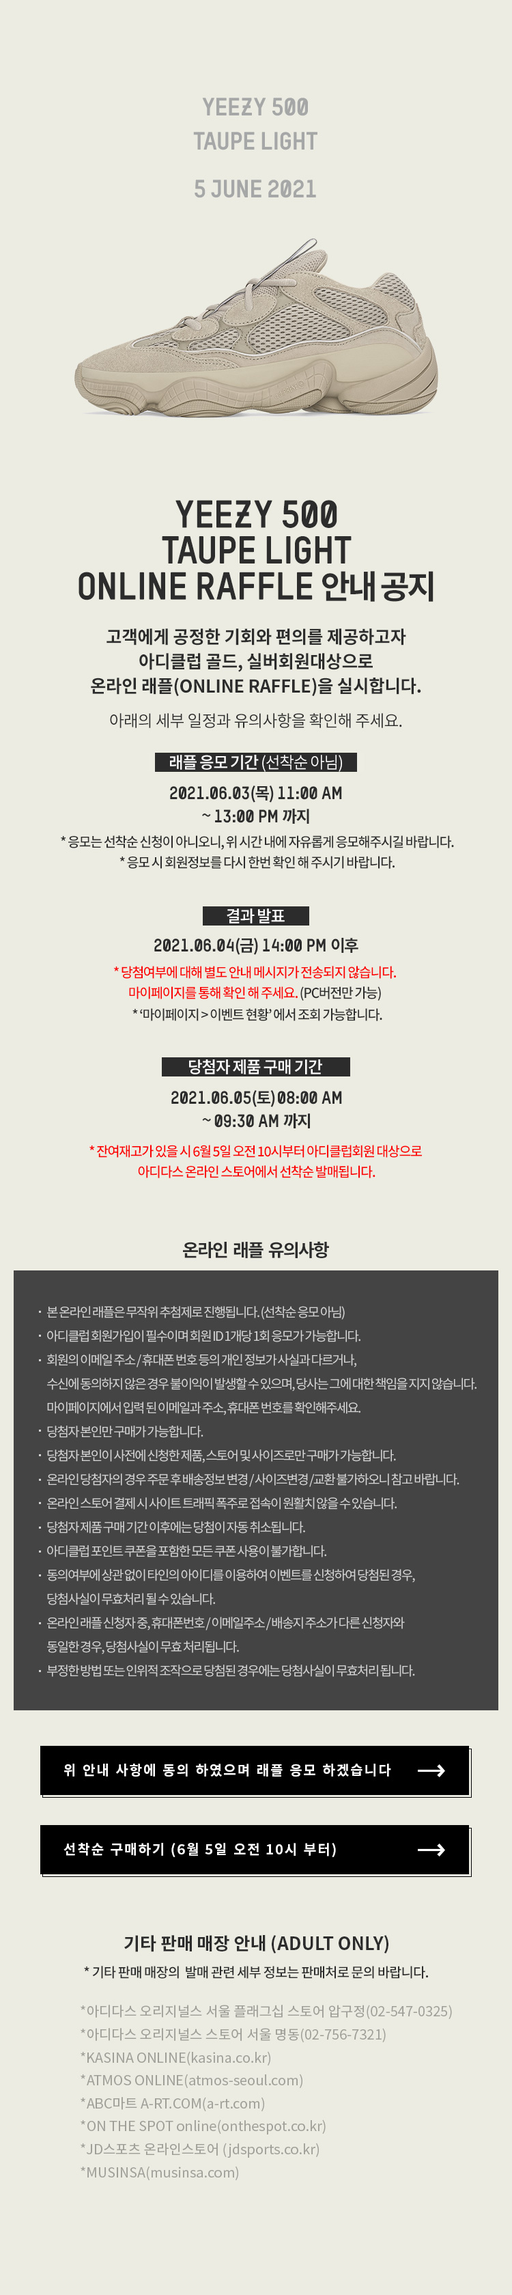
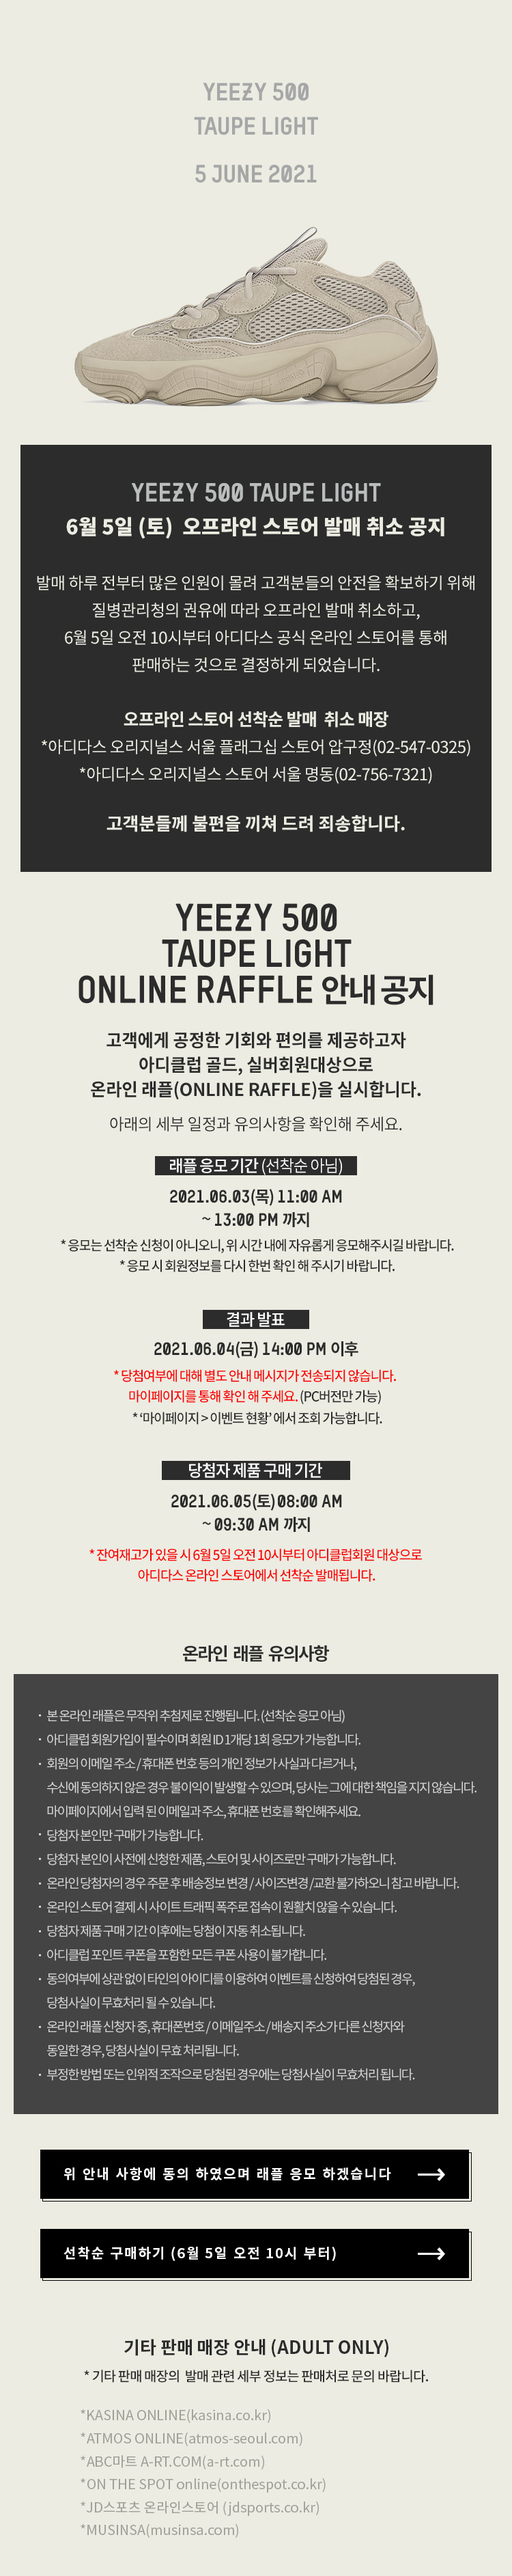
이지 금일 아삽

diff --git a/mobile/html/adidas/pn/YEEZY_INFORMATION.html b/mobile/html/adidas/pn/YEEZY_INFORMATION.html
@@ -1,16 +1,136 @@
-        <!-- container -->
-        <div id="container">
-            <style type="text/css">@media screen and (max-width: 320px){html{font-size:10px}}@media screen and (min-width: 800px){html{font-size:12px}}.pseudo-element{content:'';display:block}#yeezy_no_raffle{width:100%;position:relative;overflow:hidden;background:#fff}#yeezy_no_raffle .visual{position:relative;width:100%}#yeezy_no_raffle .visual img{display:block;width:100%}#yeezy_no_raffle .top_wrap{display:none;background:#eeeeee;text-align:center;padding-top:5%;padding-left:1.5rem;padding-right:1.5rem;padding-bottom:10%}#yeezy_no_raffle .top_wrap h3{font:2.8rem 'NotoSansKRBold';color:#000;text-align:center}#yeezy_no_raffle .top_wrap h3::after{content:'';width:45px;height:1px;background:#000;margin:20px 0;display:block;position:relative;left:50%;margin-left:-20px}#yeezy_no_raffle .top_wrap p.desc1{font:1.3rem/2rem 'NotoSansKRRegular';color:#000;margin-bottom:30px;text-align:center}#yeezy_no_raffle .top_wrap p.desc1 span{font:1.3rem/2rem 'adinenuPro-regular';text-align:center}#yeezy_no_raffle .top_wrap p.desc2{font:1.4rem/2.2rem 'NotoSansKRLight';color:#000;margin-bottom:30px;text-align:center}#yeezy_no_raffle .top_wrap p.desc2 span{font:1.5rem/2.2rem 'NotoSansKRBold'}#yeezy_no_raffle .top_wrap .button_area>*{padding:0}#yeezy_no_raffle .olapic-wrapper p.desc{font:1rem/1.8rem 'NotoSansKR';text-align:center}#yeezy_no_raffle .banner_wrap{margin-top:15%;padding:0 1.5rem}#yeezy_no_raffle .banner_wrap .banner1 a img{width:100%}#yeezy_no_raffle .banner_wrap .banner2{margin-top:8%;margin-bottom:8%}#yeezy_no_raffle .banner_wrap .banner2 a img{width:100%}
-            </style>
-            
-                        <div id="yeezy_no_raffle">
-                            <div class="visual">
-                                <img src="/images/adidas/2021/event/yeezy_information/0607/210601_a_yeezy_info_MO.jpg" alt="">
-                                <a href="https://m.adidas.co.kr/MO/Promotion/landingPage.action?NFN_ST=Y&pageNo=1315"
-                                    style="position: absolute;top: 42.5%;left: 0%;width: 100%;height: 4%;z-index: 1;text-indent: -3000px;"
-                                    campaign-label="구매하기">구매하기</a>
-                            </div>
-                            <!-- <div class="top_wrap">
+<!-- container -->
+<div id="container">
+    <style type="text/css">
+        @media screen and (max-width: 320px) {
+            html {
+                font-size: 10px
+            }
+        }
+
+        @media screen and (min-width: 800px) {
+            html {
+                font-size: 12px
+            }
+        }
+
+        .pseudo-element {
+            content: '';
+            display: block
+        }
+
+        #yeezy_no_raffle {
+            width: 100%;
+            position: relative;
+            overflow: hidden;
+            background: #fff
+        }
+
+        #yeezy_no_raffle .visual {
+            position: relative;
+            width: 100%
+        }
+
+        #yeezy_no_raffle .visual img {
+            display: block;
+            width: 100%
+        }
+
+        #yeezy_no_raffle .top_wrap {
+            display: none;
+            background: #eeeeee;
+            text-align: center;
+            padding-top: 5%;
+            padding-left: 1.5rem;
+            padding-right: 1.5rem;
+            padding-bottom: 10%
+        }
+
+        #yeezy_no_raffle .top_wrap h3 {
+            font: 2.8rem 'NotoSansKRBold';
+            color: #000;
+            text-align: center
+        }
+
+        #yeezy_no_raffle .top_wrap h3::after {
+            content: '';
+            width: 45px;
+            height: 1px;
+            background: #000;
+            margin: 20px 0;
+            display: block;
+            position: relative;
+            left: 50%;
+            margin-left: -20px
+        }
+
+        #yeezy_no_raffle .top_wrap p.desc1 {
+            font: 1.3rem/2rem 'NotoSansKRRegular';
+            color: #000;
+            margin-bottom: 30px;
+            text-align: center
+        }
+
+        #yeezy_no_raffle .top_wrap p.desc1 span {
+            font: 1.3rem/2rem 'adinenuPro-regular';
+            text-align: center
+        }
+
+        #yeezy_no_raffle .top_wrap p.desc2 {
+            font: 1.4rem/2.2rem 'NotoSansKRLight';
+            color: #000;
+            margin-bottom: 30px;
+            text-align: center
+        }
+
+        #yeezy_no_raffle .top_wrap p.desc2 span {
+            font: 1.5rem/2.2rem 'NotoSansKRBold'
+        }
+
+        #yeezy_no_raffle .top_wrap .button_area>* {
+            padding: 0
+        }
+
+        #yeezy_no_raffle .olapic-wrapper p.desc {
+            font: 1rem/1.8rem 'NotoSansKR';
+            text-align: center
+        }
+
+        #yeezy_no_raffle .banner_wrap {
+            margin-top: 15%;
+            padding: 0 1.5rem
+        }
+
+        #yeezy_no_raffle .banner_wrap .banner1 a img {
+            width: 100%
+        }
+
+        #yeezy_no_raffle .banner_wrap .banner2 {
+            margin-top: 8%;
+            margin-bottom: 8%
+        }
+
+        #yeezy_no_raffle .banner_wrap .banner2 a img {
+            width: 100%
+        }
+    </style>
+
+    <div id="yeezy_no_raffle">
+        <div class="visual">
+            <img src="/images/adidas/2021/event/yeezy_information/0602/210601_a_yeezy_raffle_MO.jpg" alt="">
+            <a href="https://m.adidas.co.kr/MO/Event/closeTemplate.action?pn=yeezy500"
+                style="position: absolute;top: 82.7%;left: 0%;width: 100%;height: 3%;z-index: 1;text-indent: -3000px;"
+                campaign-label="응모하기">응모하기</a>
+            <a href="https://m.adidas.co.kr/MO/Promotion/landingPage.action?NFN_ST=Y&amp;pageNo=1315"
+                style="position: absolute;top: 86%;left: 0%;width: 100%;height: 3%;z-index: 1;text-indent: -3000px;"
+                campaign-label="구매하기">구매하기</a>
+        </div>
+        <div class="visual">
+            <img src="/images/adidas/2021/event/yeezy_information/0531/210531_a_yeezy_info_MO.jpg" alt="">
+            <a href="https://m.adidas.co.kr/MO/Promotion/landingPage.action?NFN_ST=Y&amp;pageNo=1315"
+                style="position: absolute;top: 31.7%;left: 0%;width: 100%;height: 3.25%;z-index: 1;text-indent: -3000px;"
+                campaign-label="구매하기">구매하기</a>
+        </div>
+        <!-- <div class="top_wrap">
                                 <h3>아디다스 래플 관련 공지</h3>
                                 <p class="desc1">아디다스를 이용해 주시는 고객님들께 진심으로 감사드립니다.<br />온라인 래플(<span>ONLINE RAFFLE</span>)에 일정 관련 사항들은 추후
                                     별도로 공지하도록 하겠습니다.</p>
@@ -20,43 +140,42 @@
                                     <div><a href="https://m.adidas.co.kr:446/MO/Member/memJoin.action?">회원가입 바로가기</a></div>
                                 </div>
                             </div> -->
-            
-                            <div class="olapic-wrapper">
-                                <div id="olapic_specific_widget"></div>
-            
-                                <p class="desc">위 이지부스트 제품 사진은 이번 레플 제품과는 관련이 없습니다.</p>
-                            </div>
-            
-                            <div class="banner_wrap">
-                                <div class="banner1">
-                                    <a href="https://m.adidas.co.kr/MO/Product/bnsPrdList.action?NFN_ST=Y&section=NEW&ctgr_cd=01001&term=1"
-                                        campaign-label="new items"><img
-                                            src="/images/adidas/2020/event/yeezy_information/common/2003_a_f_new_MO.jpg"
-                                            alt="new items"></a>
-                                </div>
-                                <div class="banner2">
-                                    <!-- <a href="http://shop.adidas.co.kr/vr/BCS_GBC/web/index.html" target="_blank">
+
+        <div class="olapic-wrapper">
+            <div id="olapic_specific_widget"></div>
+
+            <p class="desc">위 이지부스트 제품 사진은 이번 레플 제품과는 관련이 없습니다.</p>
+        </div>
+
+        <div class="banner_wrap">
+            <div class="banner1">
+                <a href="https://m.adidas.co.kr/MO/Product/bnsPrdList.action?NFN_ST=Y&section=NEW&ctgr_cd=01001&term=1"
+                    campaign-label="new items"><img
+                        src="/images/adidas/2020/event/yeezy_information/common/2003_a_f_new_MO.jpg"
+                        alt="new items"></a>
+            </div>
+            <div class="banner2">
+                <!-- <a href="http://shop.adidas.co.kr/vr/BCS_GBC/web/index.html" target="_blank">
                                         <img src="http://imagem.adidas.co.kr/images/adidas/event/yeezy_no_raffle/banner02.jpg" alt="">
                                     </a> -->
-                                    <a href="https://m.adidas.co.kr/MO/Product/bnsPrdList.action?section=BEST&ctgr_cd=01001&term=1"
-                                        target="_blank" campaign-label="best items">
-                                        <img src="/images/adidas/2020/event/yeezy_information/common/2003_a_f_best_MO.jpg"
-                                            alt="best items">
-                                    </a>
-                                </div>
-                            </div>
-            
-                        </div>
-                        <!-- //no_raffle -->
-            
-                        <script type="text/javascript"
-                            src="https://photorankstatics-a.akamaihd.net/81b03e40475846d5883661ff57b34ece/static/frontend/latest/build.min.js"
-                            data-olapic="olapic_specific_widget" data-lang="KO_KO" data-instance="6e684324e549132e4962b792781ba0d9"
[1 lines of base64/hex data omitted]
-            
-            
-                        <div class="go_top">
-                            <a href="#">BACK TO TOP</a>
-                        </div>
-                    </div>
-                    <!-- //container -->
+                <a href="https://m.adidas.co.kr/MO/Product/bnsPrdList.action?section=BEST&ctgr_cd=01001&term=1"
+                    target="_blank" campaign-label="best items">
+                    <img src="/images/adidas/2020/event/yeezy_information/common/2003_a_f_best_MO.jpg" alt="best items">
+                </a>
+            </div>
+        </div>
+
+    </div>
+    <!-- //no_raffle -->
+
+    <script type="text/javascript"
+        src="https://photorankstatics-a.akamaihd.net/81b03e40475846d5883661ff57b34ece/static/frontend/latest/build.min.js"
+        data-olapic="olapic_specific_widget" data-lang="KO_KO" data-instance="6e684324e549132e4962b792781ba0d9"
[1 lines of base64/hex data omitted]
+
+
+    <div class="go_top">
+        <a href="#">BACK TO TOP</a>
+    </div>
+</div>
+<!-- //container -->

diff --git a/mobile/html/adidas/2021/event/yeezy_information/build/index.html b/mobile/html/adidas/2021/event/yeezy_information/build/index.html
@@ -39,9 +39,18 @@
 
             <div id="yeezy_no_raffle">
                 <div class="visual">
-                    <img src="/images/adidas/2021/event/yeezy_information/0607/210601_a_yeezy_info_MO.jpg" alt="">
-                    <a href="https://m.adidas.co.kr/MO/Promotion/landingPage.action?NFN_ST=Y&pageNo=1315"
-                        style="position: absolute;top: 42.5%;left: 0%;width: 100%;height: 4%;z-index: 1;text-indent: -3000px;"
+                    <img src="/images/adidas/2021/event/yeezy_information/0602/210601_a_yeezy_raffle_MO.jpg" alt="">
+                    <a href="https://m.adidas.co.kr/MO/Event/closeTemplate.action?pn=yeezy500"
+                        style="position: absolute;top: 82.7%;left: 0%;width: 100%;height: 3%;z-index: 1;text-indent: -3000px;"
+                        campaign-label="응모하기">응모하기</a>
+                    <a href="https://m.adidas.co.kr/MO/Promotion/landingPage.action?NFN_ST=Y&amp;pageNo=1315"
+                        style="position: absolute;top: 86%;left: 0%;width: 100%;height: 3%;z-index: 1;text-indent: -3000px;"
+                        campaign-label="구매하기">구매하기</a>
+                </div>
+                <div class="visual">
+                    <img src="/images/adidas/2021/event/yeezy_information/0531/210531_a_yeezy_info_MO.jpg" alt="">
+                    <a href="https://m.adidas.co.kr/MO/Promotion/landingPage.action?NFN_ST=Y&amp;pageNo=1315"
+                        style="position: absolute;top: 31.7%;left: 0%;width: 100%;height: 3.25%;z-index: 1;text-indent: -3000px;"
                         campaign-label="구매하기">구매하기</a>
                 </div>
                 <!-- <div class="top_wrap">

diff --git a/mobile/html/adidas/2021/event/yeezy_information/index.html b/mobile/html/adidas/2021/event/yeezy_information/index.html
@@ -37,9 +37,18 @@
 
             <div id="yeezy_no_raffle">
                 <div class="visual">
-                    <img src="/images/adidas/2021/event/yeezy_information/0607/210601_a_yeezy_info_MO.jpg" alt="">
-                    <a href="https://m.adidas.co.kr/MO/Promotion/landingPage.action?NFN_ST=Y&pageNo=1315"
-                        style="position: absolute;top: 42.5%;left: 0%;width: 100%;height: 4%;z-index: 1;text-indent: -3000px;"
+                    <img src="/images/adidas/2021/event/yeezy_information/0602/210601_a_yeezy_raffle_MO.jpg" alt="">
+                    <a href="https://m.adidas.co.kr/MO/Event/closeTemplate.action?pn=yeezy500"
+                        style="position: absolute;top: 82.7%;left: 0%;width: 100%;height: 3%;z-index: 1;text-indent: -3000px;"
+                        campaign-label="응모하기">응모하기</a>
+                    <a href="https://m.adidas.co.kr/MO/Promotion/landingPage.action?NFN_ST=Y&amp;pageNo=1315"
+                        style="position: absolute;top: 86%;left: 0%;width: 100%;height: 3%;z-index: 1;text-indent: -3000px;"
+                        campaign-label="구매하기">구매하기</a>
+                </div>
+                <div class="visual">
+                    <img src="/images/adidas/2021/event/yeezy_information/0531/210531_a_yeezy_info_MO.jpg" alt="">
+                    <a href="https://m.adidas.co.kr/MO/Promotion/landingPage.action?NFN_ST=Y&amp;pageNo=1315"
+                        style="position: absolute;top: 31.7%;left: 0%;width: 100%;height: 3.25%;z-index: 1;text-indent: -3000px;"
                         campaign-label="구매하기">구매하기</a>
                 </div>
                 <!-- <div class="top_wrap">
